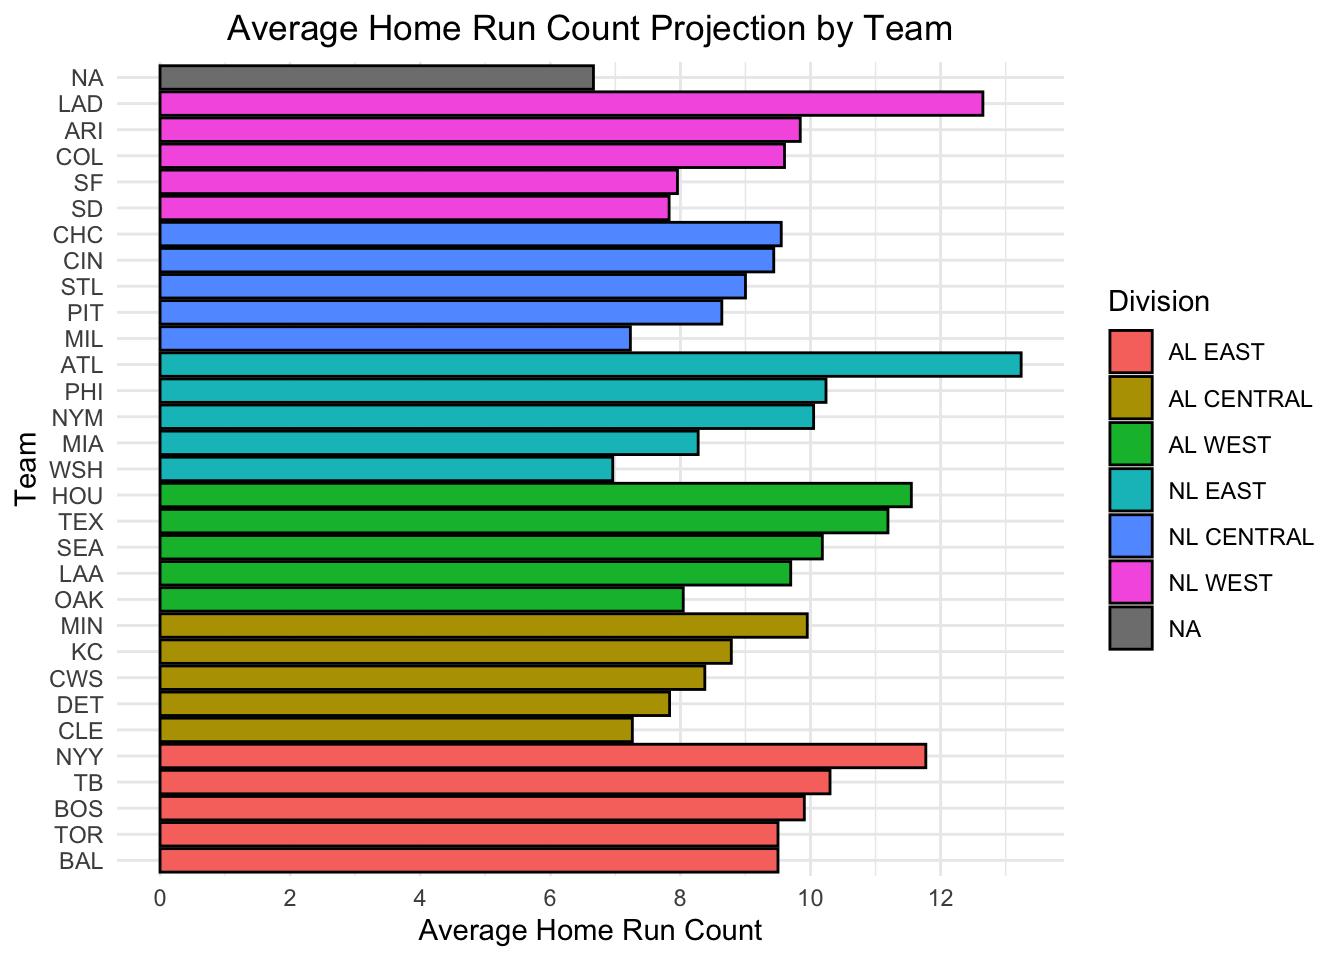
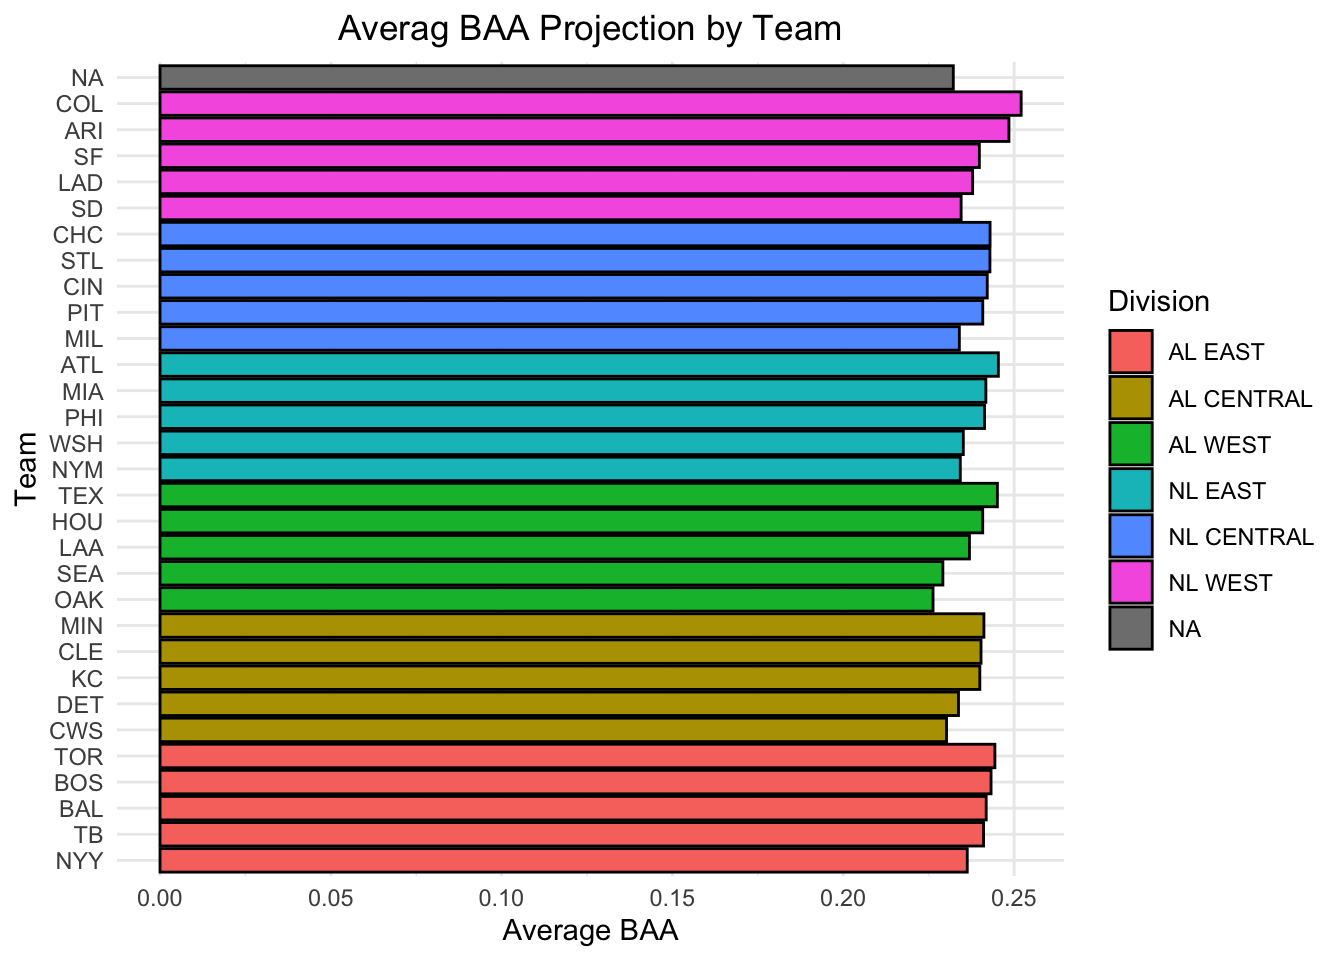
.

diff --git a/docs/posts/blog_post_1/index.html b/docs/posts/blog_post_1/index.html
@@ -232,28 +232,28 @@ dbl (14): AB, R, HR, RBI, SB, AVG, OBP, H, 2B, 3B, BB, SO, SLG, OPS
 <h2 class="anchored" data-anchor-id="primary-visualizations">Primary Visualizations</h2>
 <div class="cell">
 <div class="sourceCode cell-code" id="cb8"><pre class="sourceCode r code-with-copy"><code class="sourceCode r"><span id="cb8-1"><a href="#cb8-1" aria-hidden="true" tabindex="-1"></a>team_avg_projections <span class="sc">%&gt;%</span></span>
-<span id="cb8-2"><a href="#cb8-2" aria-hidden="true" tabindex="-1"></a>  <span class="fu">mutate</span>(<span class="at">Team =</span> <span class="fu">fct_reorder</span>(Team, avg_hr), <span class="at">.desc =</span> T) <span class="sc">%&gt;%</span></span>
+<span id="cb8-2"><a href="#cb8-2" aria-hidden="true" tabindex="-1"></a>  <span class="fu">mutate</span>(<span class="at">Team =</span> <span class="fu">fct_reorder</span>(Team, avg_baa), <span class="at">.desc =</span> T) <span class="sc">%&gt;%</span></span>
 <span id="cb8-3"><a href="#cb8-3" aria-hidden="true" tabindex="-1"></a>  <span class="fu">ggplot</span>(<span class="fu">aes</span>(<span class="at">x =</span> Team,</span>
-<span id="cb8-4"><a href="#cb8-4" aria-hidden="true" tabindex="-1"></a>             <span class="at">y =</span> avg_hr,</span>
+<span id="cb8-4"><a href="#cb8-4" aria-hidden="true" tabindex="-1"></a>             <span class="at">y =</span> avg_baa,</span>
 <span id="cb8-5"><a href="#cb8-5" aria-hidden="true" tabindex="-1"></a>             <span class="at">fill =</span> Division)) <span class="sc">+</span></span>
-<span id="cb8-6"><a href="#cb8-6" aria-hidden="true" tabindex="-1"></a>  <span class="fu">geom_col</span>(<span class="at">color =</span> <span class="st">"black"</span>, <span class="co">#fill = "lightblue"</span></span>
-<span id="cb8-7"><a href="#cb8-7" aria-hidden="true" tabindex="-1"></a>           ) <span class="sc">+</span></span>
-<span id="cb8-8"><a href="#cb8-8" aria-hidden="true" tabindex="-1"></a>  <span class="fu">labs</span>(<span class="at">y =</span> <span class="st">"Average Home Run Count"</span>,</span>
-<span id="cb8-9"><a href="#cb8-9" aria-hidden="true" tabindex="-1"></a>       <span class="at">title =</span> <span class="st">"Average Home Run Count Projection by Team"</span>) <span class="sc">+</span></span>
-<span id="cb8-10"><a href="#cb8-10" aria-hidden="true" tabindex="-1"></a>  <span class="fu">theme_minimal</span>() <span class="sc">+</span></span>
-<span id="cb8-11"><a href="#cb8-11" aria-hidden="true" tabindex="-1"></a>  <span class="fu">scale_y_continuous</span>(<span class="at">breaks =</span> <span class="fu">seq</span>(<span class="dv">0</span>, <span class="dv">15</span>, <span class="at">by =</span> <span class="dv">2</span>)) <span class="sc">+</span></span>
+<span id="cb8-6"><a href="#cb8-6" aria-hidden="true" tabindex="-1"></a>  <span class="fu">geom_col</span>(<span class="at">color =</span> <span class="st">"black"</span>) <span class="sc">+</span></span>
+<span id="cb8-7"><a href="#cb8-7" aria-hidden="true" tabindex="-1"></a>  <span class="fu">labs</span>(<span class="at">y =</span> <span class="st">"Average BAA"</span>,</span>
+<span id="cb8-8"><a href="#cb8-8" aria-hidden="true" tabindex="-1"></a>       <span class="at">title =</span> <span class="st">"Averag BAA Projection by Team"</span>) <span class="sc">+</span></span>
+<span id="cb8-9"><a href="#cb8-9" aria-hidden="true" tabindex="-1"></a>  <span class="fu">theme_minimal</span>() <span class="sc">+</span></span>
+<span id="cb8-10"><a href="#cb8-10" aria-hidden="true" tabindex="-1"></a>  <span class="co">#scale_y_continuous(breaks = seq(0, 15, by = 2)) +</span></span>
+<span id="cb8-11"><a href="#cb8-11" aria-hidden="true" tabindex="-1"></a>  <span class="co">#scale_y_continuous(n.breaks = 10, limits = c(0.15, 0.5)) +</span></span>
 <span id="cb8-12"><a href="#cb8-12" aria-hidden="true" tabindex="-1"></a>  <span class="fu">theme</span>(<span class="at">plot.title =</span> <span class="fu">element_text</span>(<span class="at">hjust =</span> <span class="fl">0.5</span>)) <span class="sc">+</span></span>
 <span id="cb8-13"><a href="#cb8-13" aria-hidden="true" tabindex="-1"></a>  <span class="fu">coord_flip</span>()</span></code><button title="Copy to Clipboard" class="code-copy-button"><i class="bi"></i></button></pre></div>
 <div class="cell-output-display">
 <p><img src="index_files/figure-html/unnamed-chunk-4-1.png" class="img-fluid" width="672"></p>
 </div>
 <div class="sourceCode cell-code" id="cb9"><pre class="sourceCode r code-with-copy"><code class="sourceCode r"><span id="cb9-1"><a href="#cb9-1" aria-hidden="true" tabindex="-1"></a>team_avg_projections <span class="sc">%&gt;%</span></span>
-<span id="cb9-2"><a href="#cb9-2" aria-hidden="true" tabindex="-1"></a>  <span class="fu">mutate</span>(<span class="at">Team =</span> <span class="fu">fct_reorder</span>(Team, avg_hr), <span class="at">.desc =</span> T) <span class="sc">%&gt;%</span></span>
+<span id="cb9-2"><a href="#cb9-2" aria-hidden="true" tabindex="-1"></a>  <span class="fu">mutate</span>(<span class="at">Team =</span> <span class="fu">fct_reorder</span>(Team, avg_baa), <span class="at">.desc =</span> T) <span class="sc">%&gt;%</span></span>
 <span id="cb9-3"><a href="#cb9-3" aria-hidden="true" tabindex="-1"></a>  <span class="fu">ggplot</span>(<span class="fu">aes</span>(<span class="at">x =</span> Team,</span>
-<span id="cb9-4"><a href="#cb9-4" aria-hidden="true" tabindex="-1"></a>             <span class="at">y =</span> avg_hr)) <span class="sc">+</span></span>
+<span id="cb9-4"><a href="#cb9-4" aria-hidden="true" tabindex="-1"></a>             <span class="at">y =</span> avg_baa)) <span class="sc">+</span></span>
 <span id="cb9-5"><a href="#cb9-5" aria-hidden="true" tabindex="-1"></a>  <span class="fu">geom_col</span>(<span class="at">color =</span> <span class="st">"red"</span>, <span class="at">fill =</span> <span class="st">"lightblue"</span>) <span class="sc">+</span></span>
-<span id="cb9-6"><a href="#cb9-6" aria-hidden="true" tabindex="-1"></a>  <span class="fu">labs</span>(<span class="at">y =</span> <span class="st">"Average Home Run Count"</span>,</span>
-<span id="cb9-7"><a href="#cb9-7" aria-hidden="true" tabindex="-1"></a>       <span class="at">title =</span> <span class="st">"Average Home Run Count Projection by Team"</span>) <span class="sc">+</span></span>
+<span id="cb9-6"><a href="#cb9-6" aria-hidden="true" tabindex="-1"></a>  <span class="fu">labs</span>(<span class="at">y =</span> <span class="st">"Average BAA"</span>,</span>
+<span id="cb9-7"><a href="#cb9-7" aria-hidden="true" tabindex="-1"></a>       <span class="at">title =</span> <span class="st">"Average BAA"</span>) <span class="sc">+</span></span>
 <span id="cb9-8"><a href="#cb9-8" aria-hidden="true" tabindex="-1"></a>  <span class="fu">theme_minimal</span>() <span class="sc">+</span></span>
 <span id="cb9-9"><a href="#cb9-9" aria-hidden="true" tabindex="-1"></a>  <span class="fu">scale_y_continuous</span>(<span class="at">breaks =</span> <span class="fu">seq</span>(<span class="dv">0</span>, <span class="dv">15</span>, <span class="at">by =</span> <span class="dv">2</span>)) <span class="sc">+</span></span>
 <span id="cb9-10"><a href="#cb9-10" aria-hidden="true" tabindex="-1"></a>  <span class="fu">theme</span>(<span class="at">plot.title =</span> <span class="fu">element_text</span>(<span class="at">hjust =</span> <span class="fl">0.5</span>),</span>

diff --git a/docs/index.html b/docs/index.html
@@ -169,7 +169,7 @@ ul.task-list li input[type="checkbox"] {
 
 <div class="quarto-listing quarto-listing-container-default" id="listing-listing">
 <div class="list quarto-listing-default">
-<div class="quarto-post image-right" data-index="0" data-listing-file-modified-sort="1707249128875" data-listing-reading-time-sort="3">
+<div class="quarto-post image-right" data-index="0" data-listing-file-modified-sort="1707318594693" data-listing-reading-time-sort="3">
 <div class="thumbnail">
 <p><a href="./posts/blog_post_1/index.html"> <p class="card-img-top"><img src="posts/blog_post_1/index_files/figure-html/unnamed-chunk-4-1.png"  class="thumbnail-image card-img"/></p> </a></p>
 </div>
